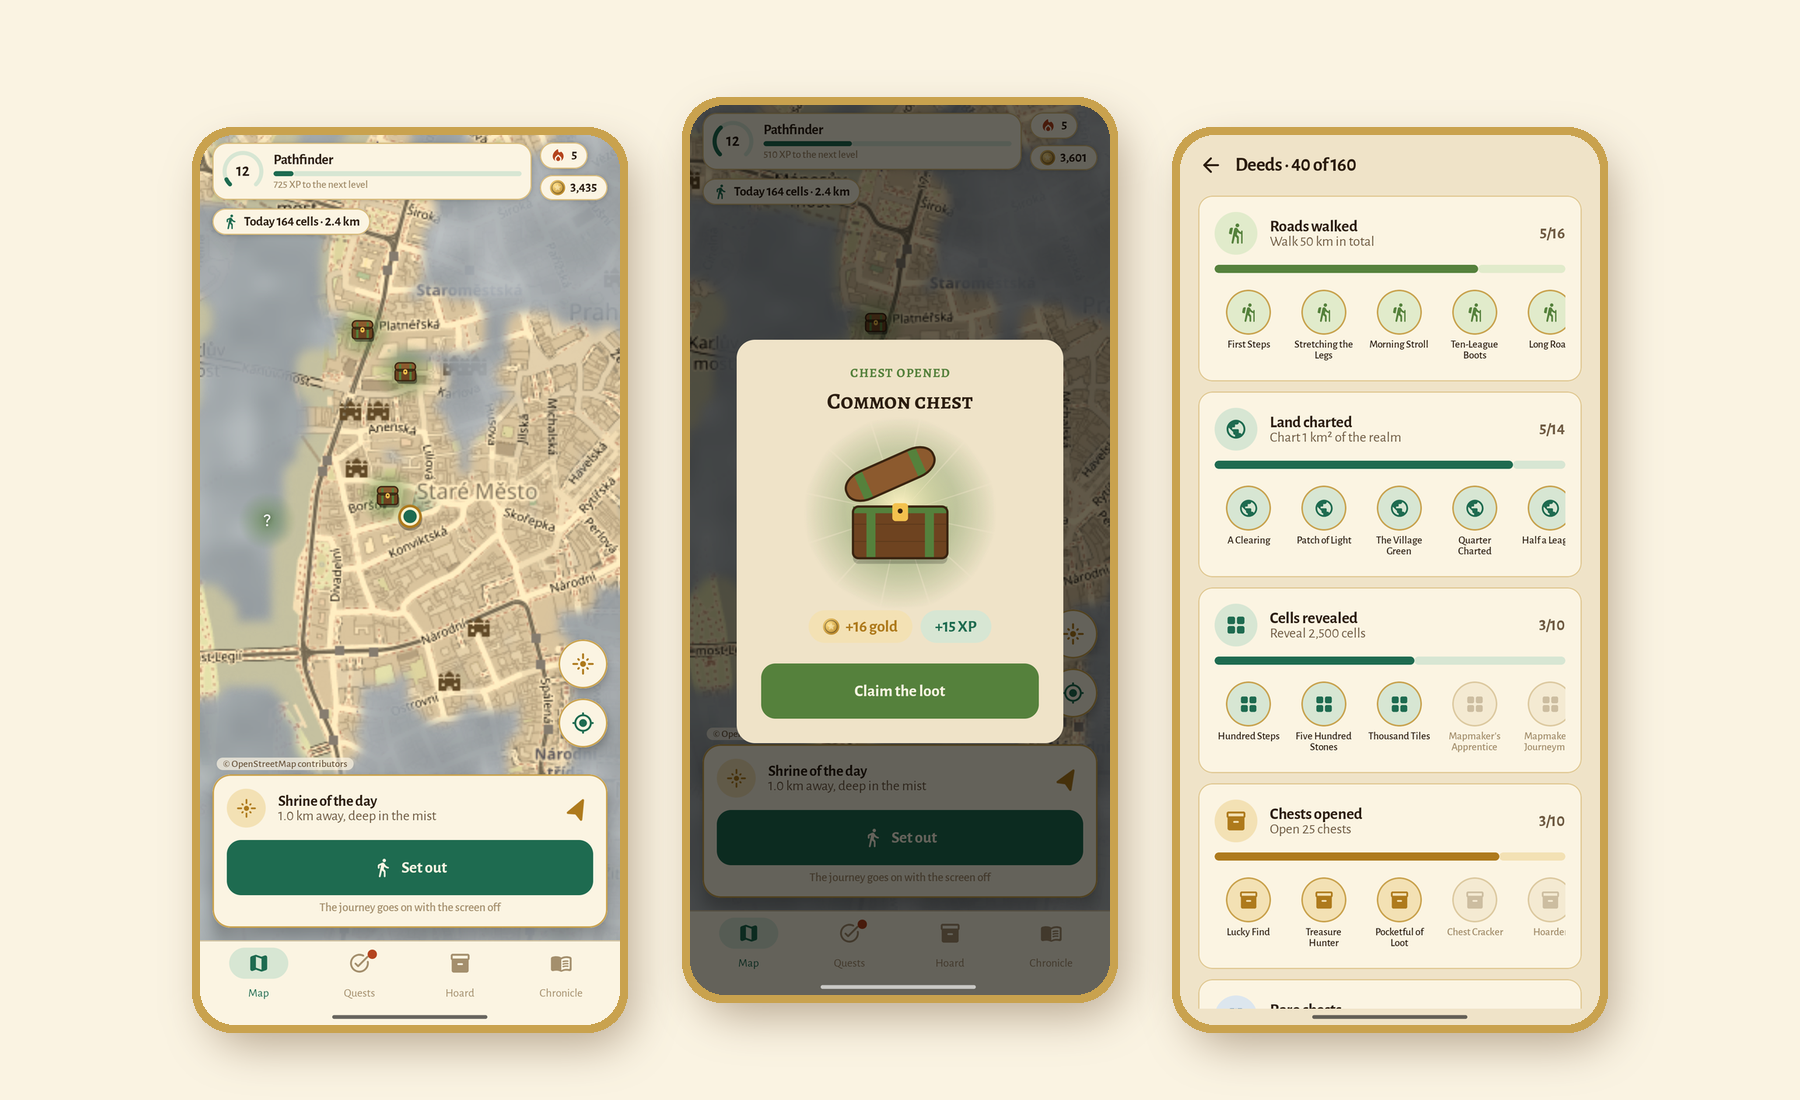
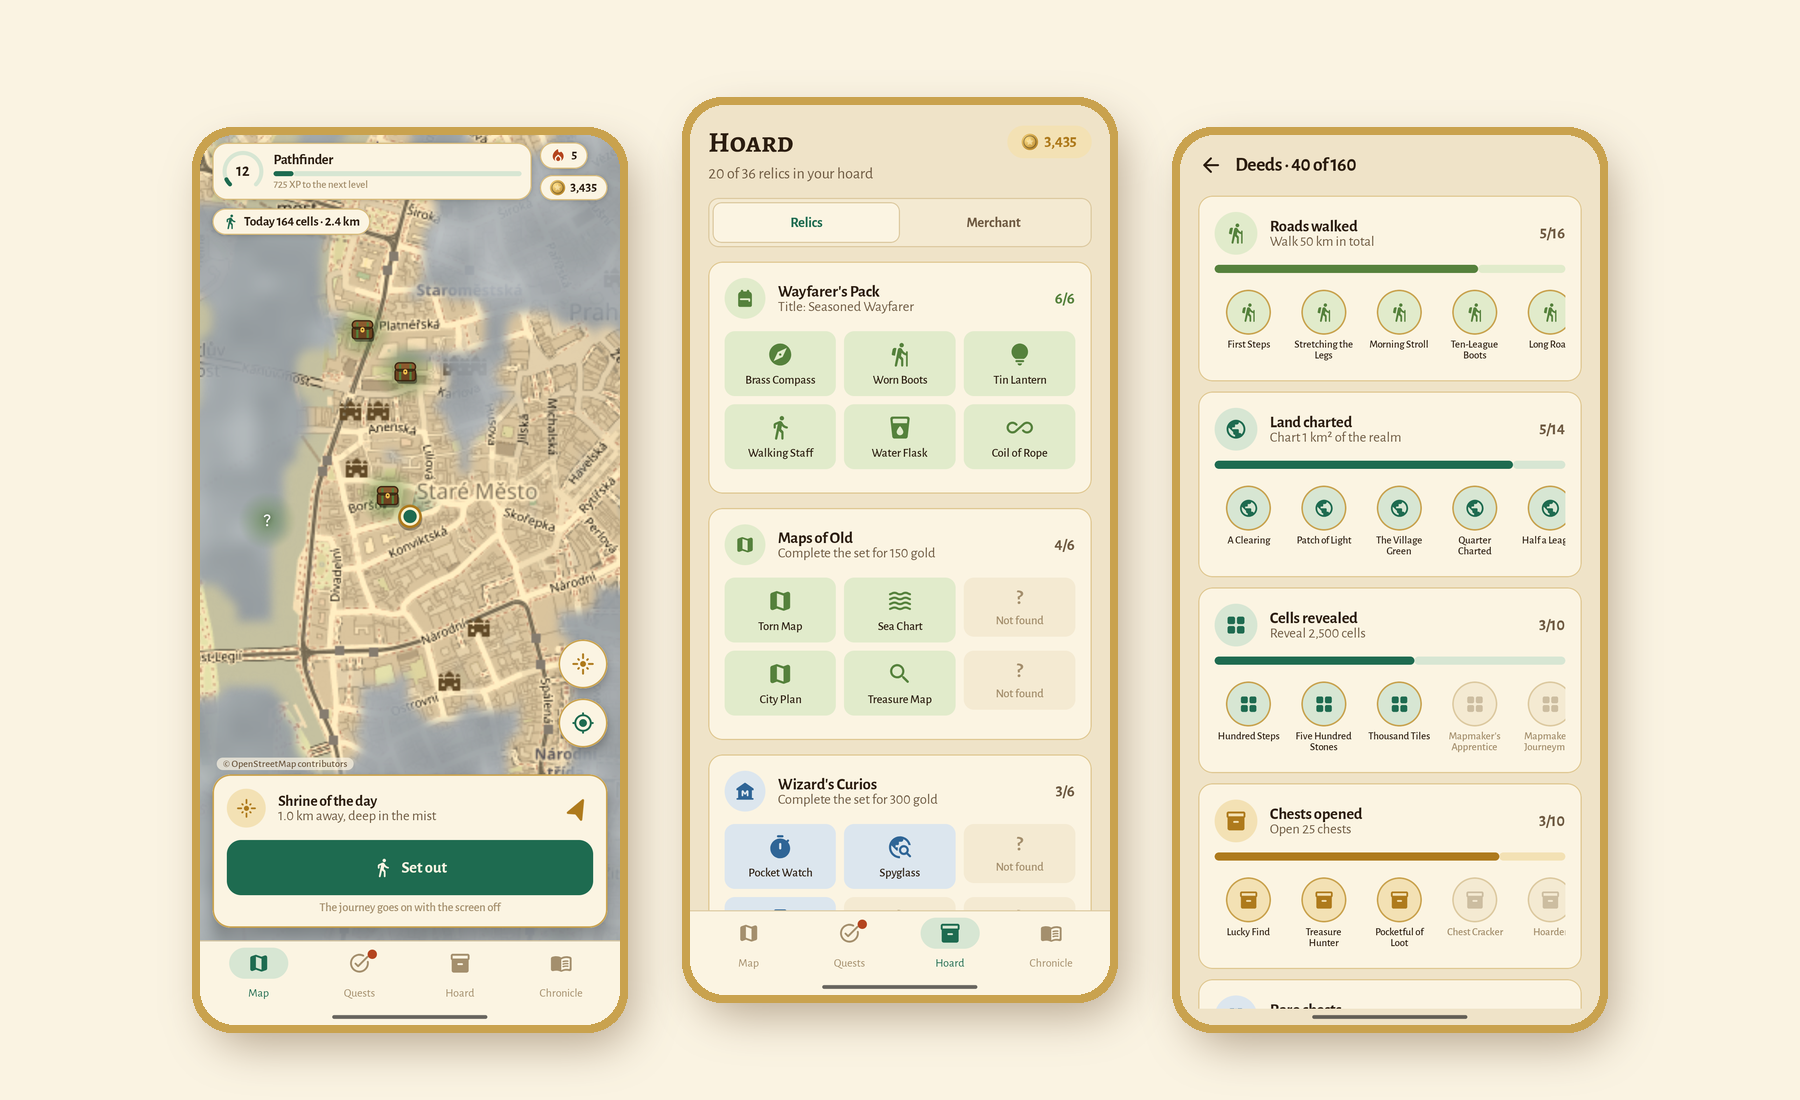
Show the hoard instead of an opened chest in the screenshots

Changed region(s): [[0.3733, 0.0927, 0.6222, 0.9273]]

diff --git a/README.ru.md b/README.ru.md
@@ -17,7 +17,7 @@
 
 [English](README.md) · **Русский** · [Сайт](https://bigdevwhale.github.io/stillcraft/apps/fogwalk/) · [Изменения](CHANGELOG.md)
 
-<img src="docs/screenshots/overview.ru.png" alt="Fogwalk на телефоне: старая Прага, наполовину открытая из тумана, открытие сундука и книга деяний" width="100%" />
+<img src="docs/screenshots/overview.ru.png" alt="Fogwalk на телефоне: старая Прага, наполовину открытая из тумана, сокровищница реликвий и книга деяний" width="100%" />
 
 </div>
 
@@ -48,7 +48,6 @@ Fogwalk превращает город в старинный атлас, зат
 <table>
   <tr>
     <td><img src="docs/screenshots/map.ru.png" alt="Карта: открытые улицы старой Праги и туман вокруг" /></td>
-    <td><img src="docs/screenshots/chest.ru.png" alt="Открытие сундука" /></td>
     <td><img src="docs/screenshots/quests.ru.png" alt="Квесты и серия" /></td>
     <td><img src="docs/screenshots/onboarding.ru.png" alt="Приветствие: королевство скрыто туманом" /></td>
   </tr>

diff --git a/README.md b/README.md
@@ -17,7 +17,7 @@
 
 **English** · [Русский](README.ru.md) · [Website](https://bigdevwhale.github.io/stillcraft/apps/fogwalk/) · [Changelog](CHANGELOG.md)
 
-<img src="docs/screenshots/overview.png" alt="Fogwalk on a phone: Prague's old town half revealed from the mist, a chest being opened, and the book of deeds" width="100%" />
+<img src="docs/screenshots/overview.png" alt="Fogwalk on a phone: Prague's old town half revealed from the mist, the hoard of relics and the book of deeds" width="100%" />
 
 </div>
 
@@ -48,7 +48,6 @@ Fogwalk turns the city into an old atlas lost in mist. Wherever you walk, the mi
 <table>
   <tr>
     <td><img src="docs/screenshots/map.png" alt="The map: charted streets of Prague's old town and the mist around them" /></td>
-    <td><img src="docs/screenshots/chest.png" alt="A chest being opened" /></td>
     <td><img src="docs/screenshots/quests.png" alt="Quests and the streak" /></td>
     <td><img src="docs/screenshots/onboarding.png" alt="Welcome: the realm is lost in mist" /></td>
   </tr>
